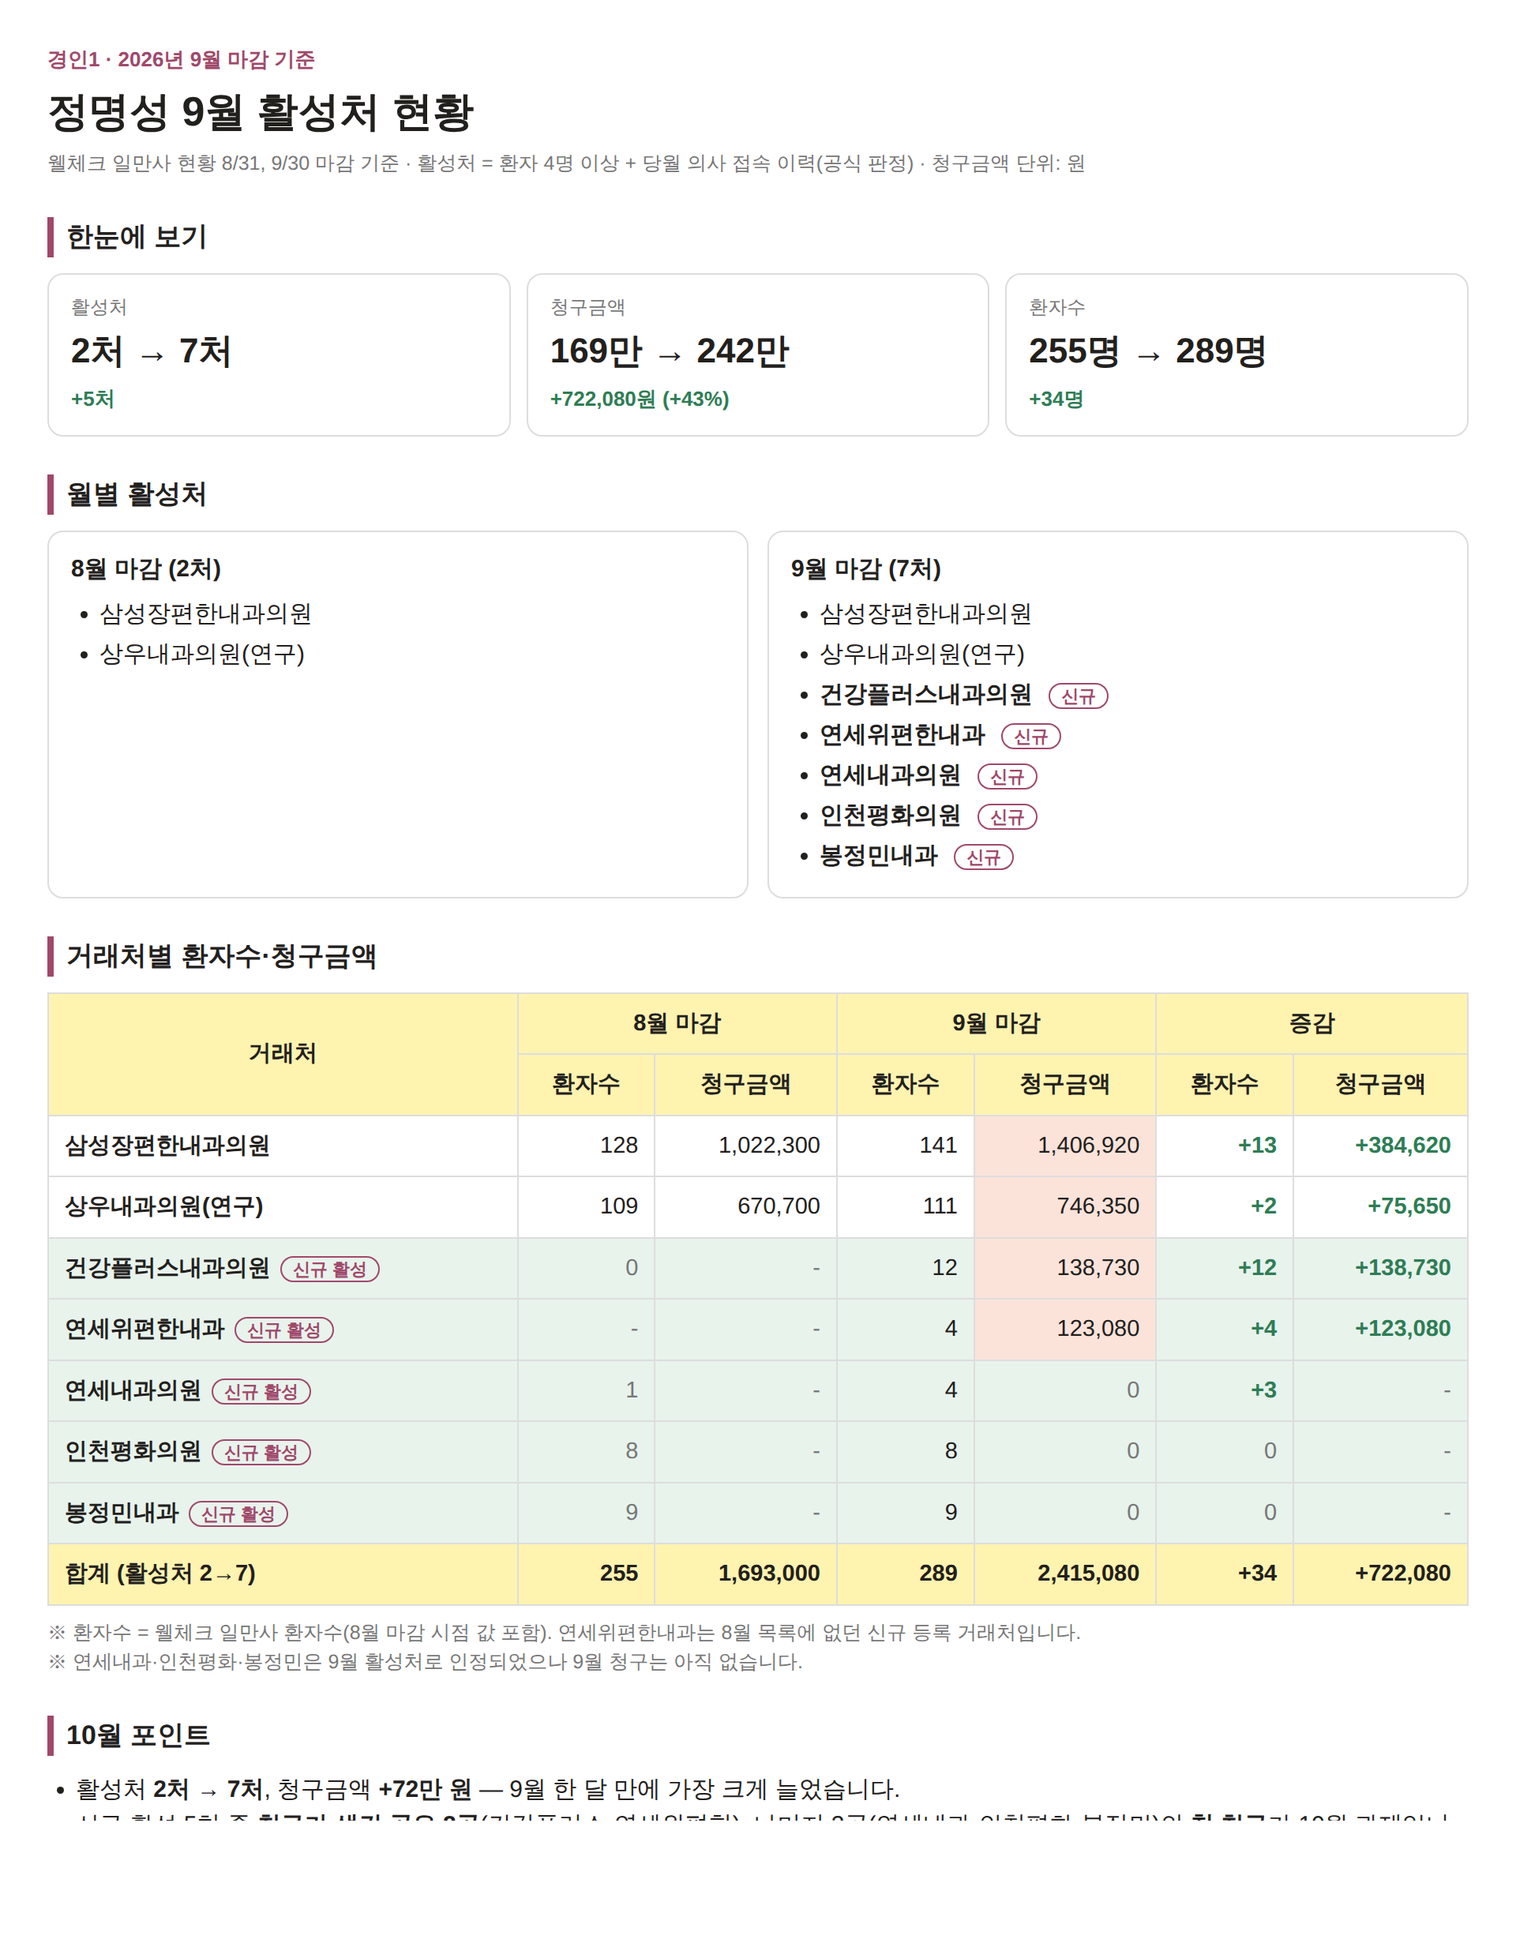
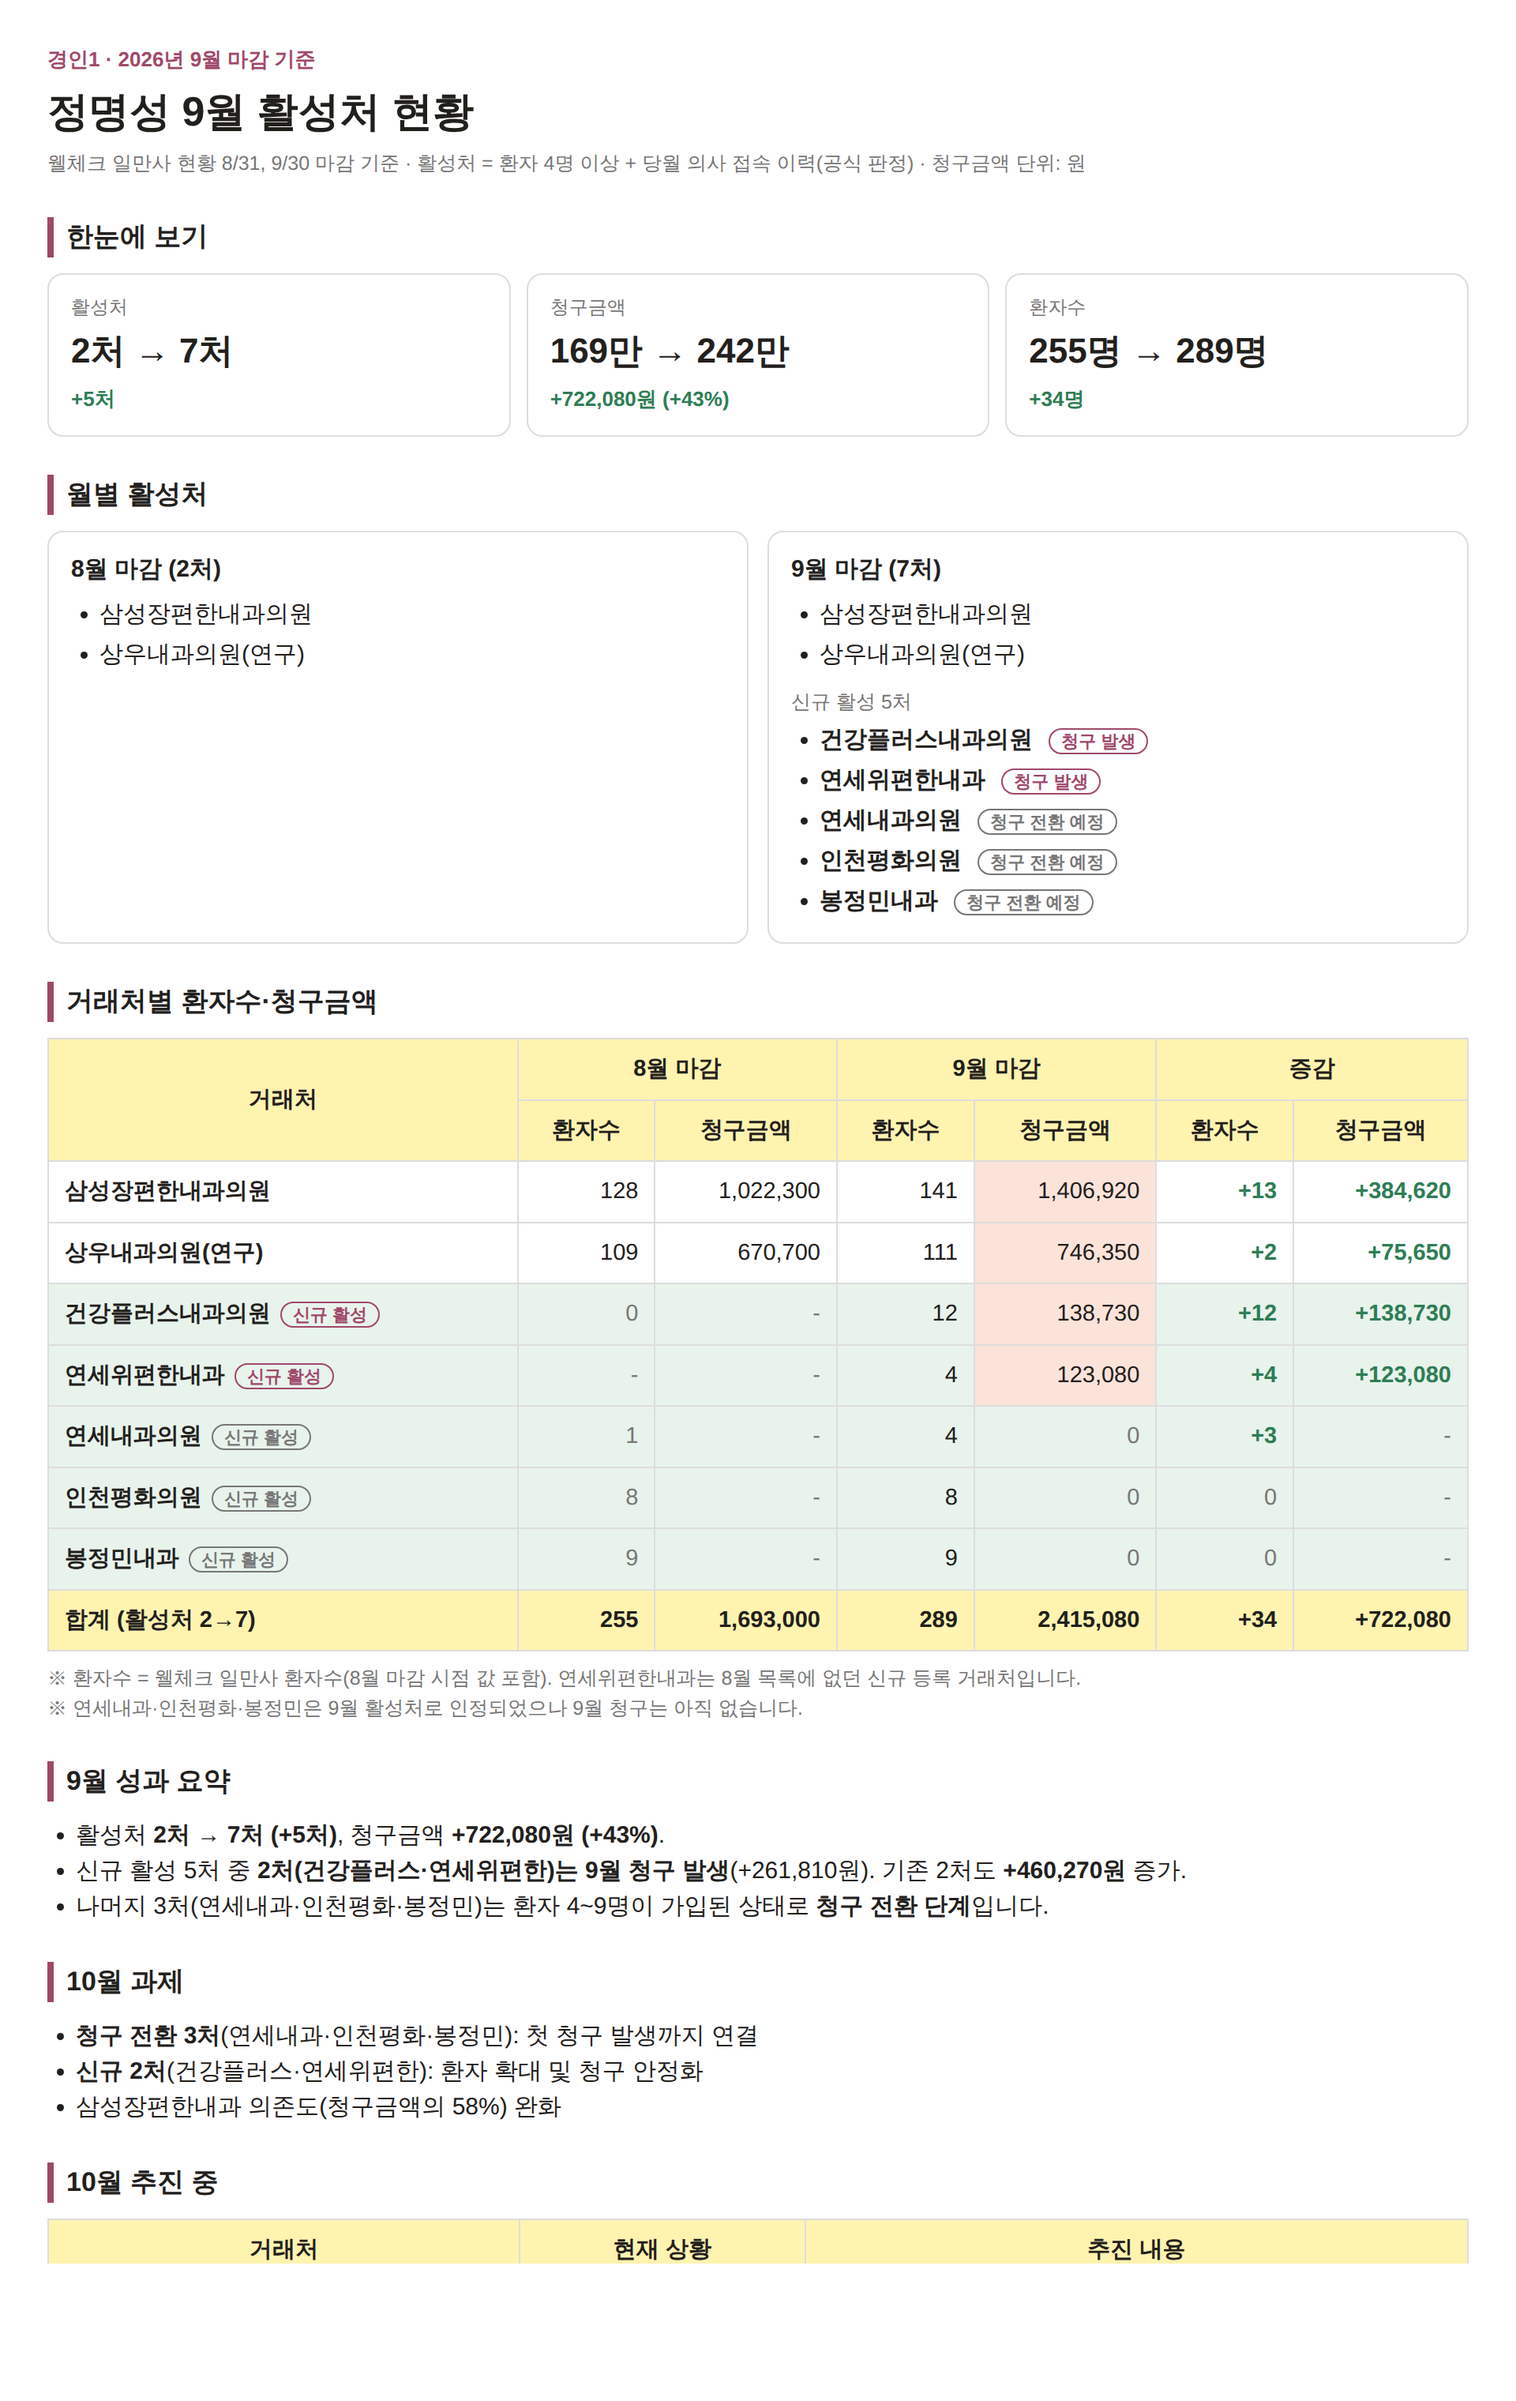
정명성 자료: 신규 5처 구분, 10월 과제·추진 중 항목 추가
Claude-Session: https://claude.ai/code/session_01WUgumnvAmHPexbdhLwTJ8a

diff --git a/jungmyungsung_sep.html b/jungmyungsung_sep.html
@@ -14,7 +14,7 @@ th,td{border:1px solid var(--line);padding:8px 10px;text-align:right;white-space
 th{background:var(--head);text-align:center}td.n{text-align:left;font-weight:700}td.c{text-align:center}
 .hl{background:var(--hl)}.up{color:var(--ok);font-weight:700}.mu{color:var(--mute)}
 tr.new td{background:var(--new)}tr.new td.hl{background:var(--hl)}
-.tag{font-size:11px;padding:1px 7px;border-radius:9px;border:1px solid var(--acc);color:var(--acc);margin-left:6px;font-weight:600}
+.tag.t2{color:var(--mute);border-color:var(--mute)}.tag{font-size:11px;padding:1px 7px;border-radius:9px;border:1px solid var(--acc);color:var(--acc);margin-left:6px;font-weight:600}
 tfoot td{background:var(--head);font-weight:700}
 .two{display:grid;grid-template-columns:1fr 1fr;gap:12px}.two div{border:1px solid var(--line);border-radius:10px;padding:12px 14px}
 .two div>b{display:block;margin-bottom:6px}.two li{margin:3px 0}ul{margin:0;padding-left:18px}
@@ -34,7 +34,8 @@ tfoot td{background:var(--head);font-weight:700}
 <h2>월별 활성처</h2>
 <div class="two">
 <div><b>8월 마감 (2처)</b><ul><li>삼성장편한내과의원</li><li>상우내과의원(연구)</li></ul></div>
-<div><b>9월 마감 (7처)</b><ul><li>삼성장편한내과의원</li><li>상우내과의원(연구)</li><li><b>건강플러스내과의원</b> <span class="tag">신규</span></li><li><b>연세위편한내과</b> <span class="tag">신규</span></li><li><b>연세내과의원</b> <span class="tag">신규</span></li><li><b>인천평화의원</b> <span class="tag">신규</span></li><li><b>봉정민내과</b> <span class="tag">신규</span></li></ul></div>
+<div><b>9월 마감 (7처)</b><ul><li>삼성장편한내과의원</li><li>상우내과의원(연구)</li></ul>
+<p class="d" style="margin:10px 0 2px">신규 활성 5처</p><ul><li><b>건강플러스내과의원</b> <span class="tag">청구 발생</span></li><li><b>연세위편한내과</b> <span class="tag">청구 발생</span></li><li><b>연세내과의원</b> <span class="tag t2">청구 전환 예정</span></li><li><b>인천평화의원</b> <span class="tag t2">청구 전환 예정</span></li><li><b>봉정민내과</b> <span class="tag t2">청구 전환 예정</span></li></ul></div>
 </div>
 
 <h2>거래처별 환자수·청구금액</h2>
@@ -46,18 +47,29 @@ tfoot td{background:var(--head);font-weight:700}
 <tr><td class="n">상우내과의원(연구)</td><td>109</td><td>670,700</td><td>111</td><td class="hl">746,350</td><td class="up">+2</td><td class="up">+75,650</td></tr>
 <tr class="new"><td class="n">건강플러스내과의원<span class="tag">신규 활성</span></td><td class="mu">0</td><td class="mu">-</td><td>12</td><td class="hl">138,730</td><td class="up">+12</td><td class="up">+138,730</td></tr>
 <tr class="new"><td class="n">연세위편한내과<span class="tag">신규 활성</span></td><td class="mu">-</td><td class="mu">-</td><td>4</td><td class="hl">123,080</td><td class="up">+4</td><td class="up">+123,080</td></tr>
-<tr class="new"><td class="n">연세내과의원<span class="tag">신규 활성</span></td><td class="mu">1</td><td class="mu">-</td><td>4</td><td class="mu">0</td><td class="up">+3</td><td class="mu">-</td></tr>
-<tr class="new"><td class="n">인천평화의원<span class="tag">신규 활성</span></td><td class="mu">8</td><td class="mu">-</td><td>8</td><td class="mu">0</td><td class="mu">0</td><td class="mu">-</td></tr>
-<tr class="new"><td class="n">봉정민내과<span class="tag">신규 활성</span></td><td class="mu">9</td><td class="mu">-</td><td>9</td><td class="mu">0</td><td class="mu">0</td><td class="mu">-</td></tr>
+<tr class="new"><td class="n">연세내과의원<span class="tag t2">신규 활성</span></td><td class="mu">1</td><td class="mu">-</td><td>4</td><td class="mu">0</td><td class="up">+3</td><td class="mu">-</td></tr>
+<tr class="new"><td class="n">인천평화의원<span class="tag t2">신규 활성</span></td><td class="mu">8</td><td class="mu">-</td><td>8</td><td class="mu">0</td><td class="mu">0</td><td class="mu">-</td></tr>
+<tr class="new"><td class="n">봉정민내과<span class="tag t2">신규 활성</span></td><td class="mu">9</td><td class="mu">-</td><td>9</td><td class="mu">0</td><td class="mu">0</td><td class="mu">-</td></tr>
 </tbody>
 <tfoot><tr><td class="n">합계 (활성처 2→7)</td><td>255</td><td>1,693,000</td><td>289</td><td>2,415,080</td><td>+34</td><td>+722,080</td></tr></tfoot>
 </table></div>
 <div class="d" style="margin-top:8px">※ 환자수 = 웰체크 일만사 환자수(8월 마감 시점 값 포함). 연세위편한내과는 8월 목록에 없던 신규 등록 거래처입니다.<br>※ 연세내과·인천평화·봉정민은 9월 활성처로 인정되었으나 9월 청구는 아직 없습니다.</div>
 
-<h2>10월 포인트</h2>
+<h2>9월 성과 요약</h2>
 <ul>
-<li>활성처 <b>2처 → 7처</b>, 청구금액 <b>+72만 원</b> — 9월 한 달 만에 가장 크게 늘었습니다.</li>
-<li>신규 활성 5처 중 <b>청구가 생긴 곳은 2곳</b>(건강플러스·연세위편한). 나머지 3곳(연세내과·인천평화·봉정민)의 <b>첫 청구</b>가 10월 과제입니다.</li>
-<li>삼성장편한내과가 청구금액의 <b>58%</b>를 차지합니다. 신규처 청구가 커지면 의존도가 낮아집니다.</li>
+<li>활성처 <b>2처 → 7처 (+5처)</b>, 청구금액 <b>+722,080원 (+43%)</b>.</li>
+<li>신규 활성 5처 중 <b>2처(건강플러스·연세위편한)는 9월 청구 발생</b>(+261,810원). 기존 2처도 <b>+460,270원</b> 증가.</li>
+<li>나머지 3처(연세내과·인천평화·봉정민)는 환자 4~9명이 가입된 상태로 <b>청구 전환 단계</b>입니다.</li>
 </ul>
+
+<h2>10월 과제</h2>
+<ul>
+<li><b>청구 전환 3처</b>(연세내과·인천평화·봉정민): 첫 청구 발생까지 연결</li>
+<li><b>신규 2처</b>(건강플러스·연세위편한): 환자 확대 및 청구 안정화</li>
+<li>삼성장편한내과 의존도(청구금액의 58%) 완화</li>
+</ul>
+
+<h2>10월 추진 중</h2>
+<table><thead><tr><th>거래처</th><th>현재 상황</th><th>추진 내용</th></tr></thead>
+<tbody><tr><td class="n" style="text-align:left">박가정의학과의원</td><td class="c" style="text-align:left">반대 극복</td><td style="text-align:left">웰체크 제품설명회 추진 중</td></tr></tbody></table>
 </div></body></html>
